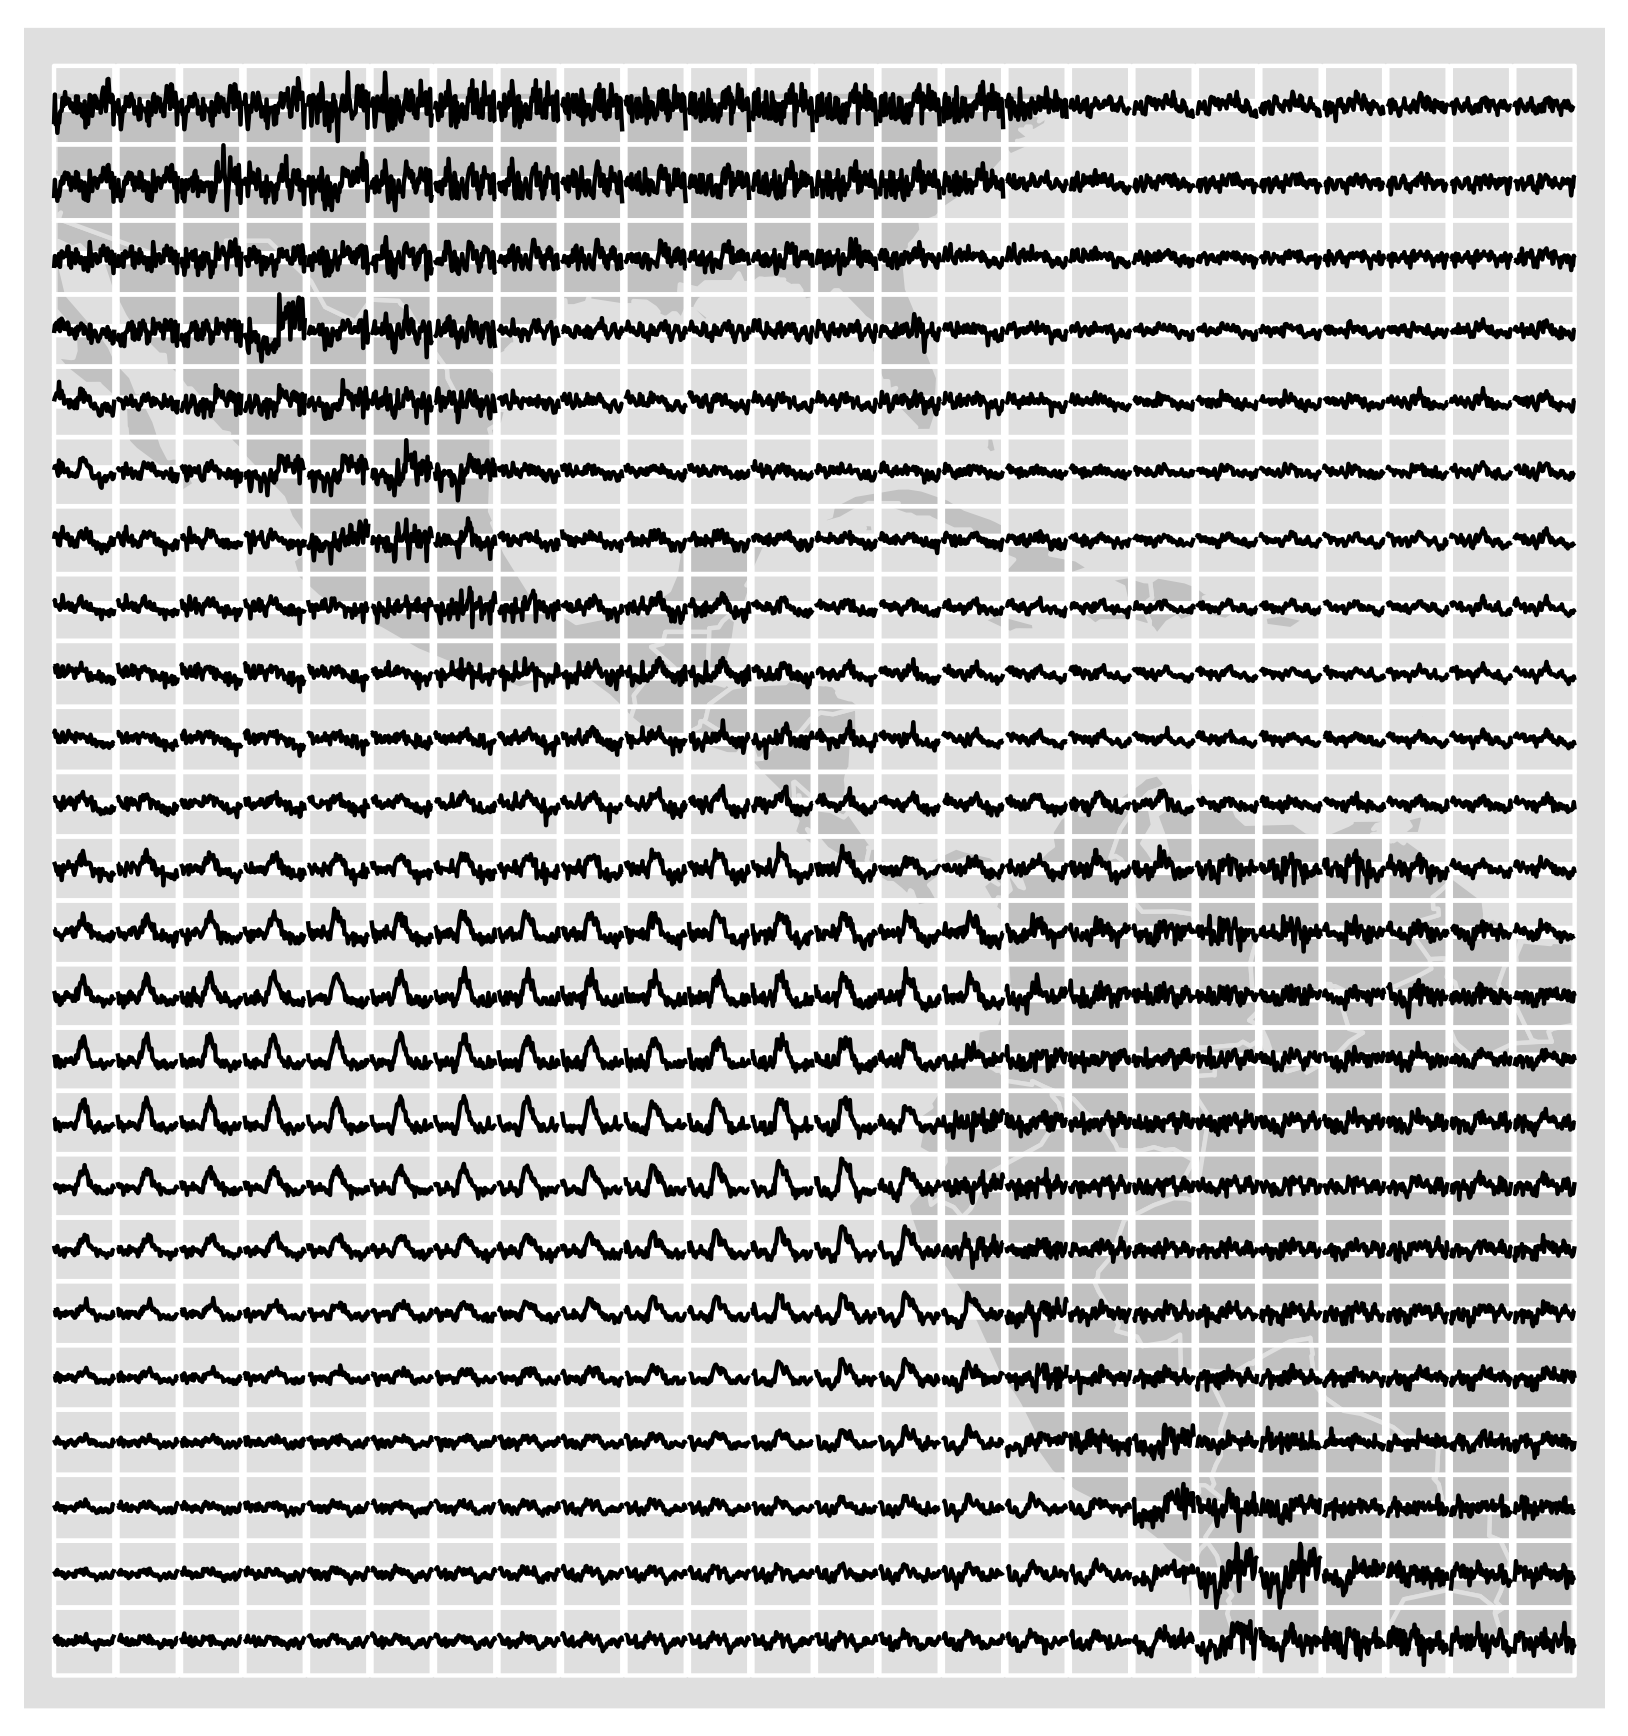
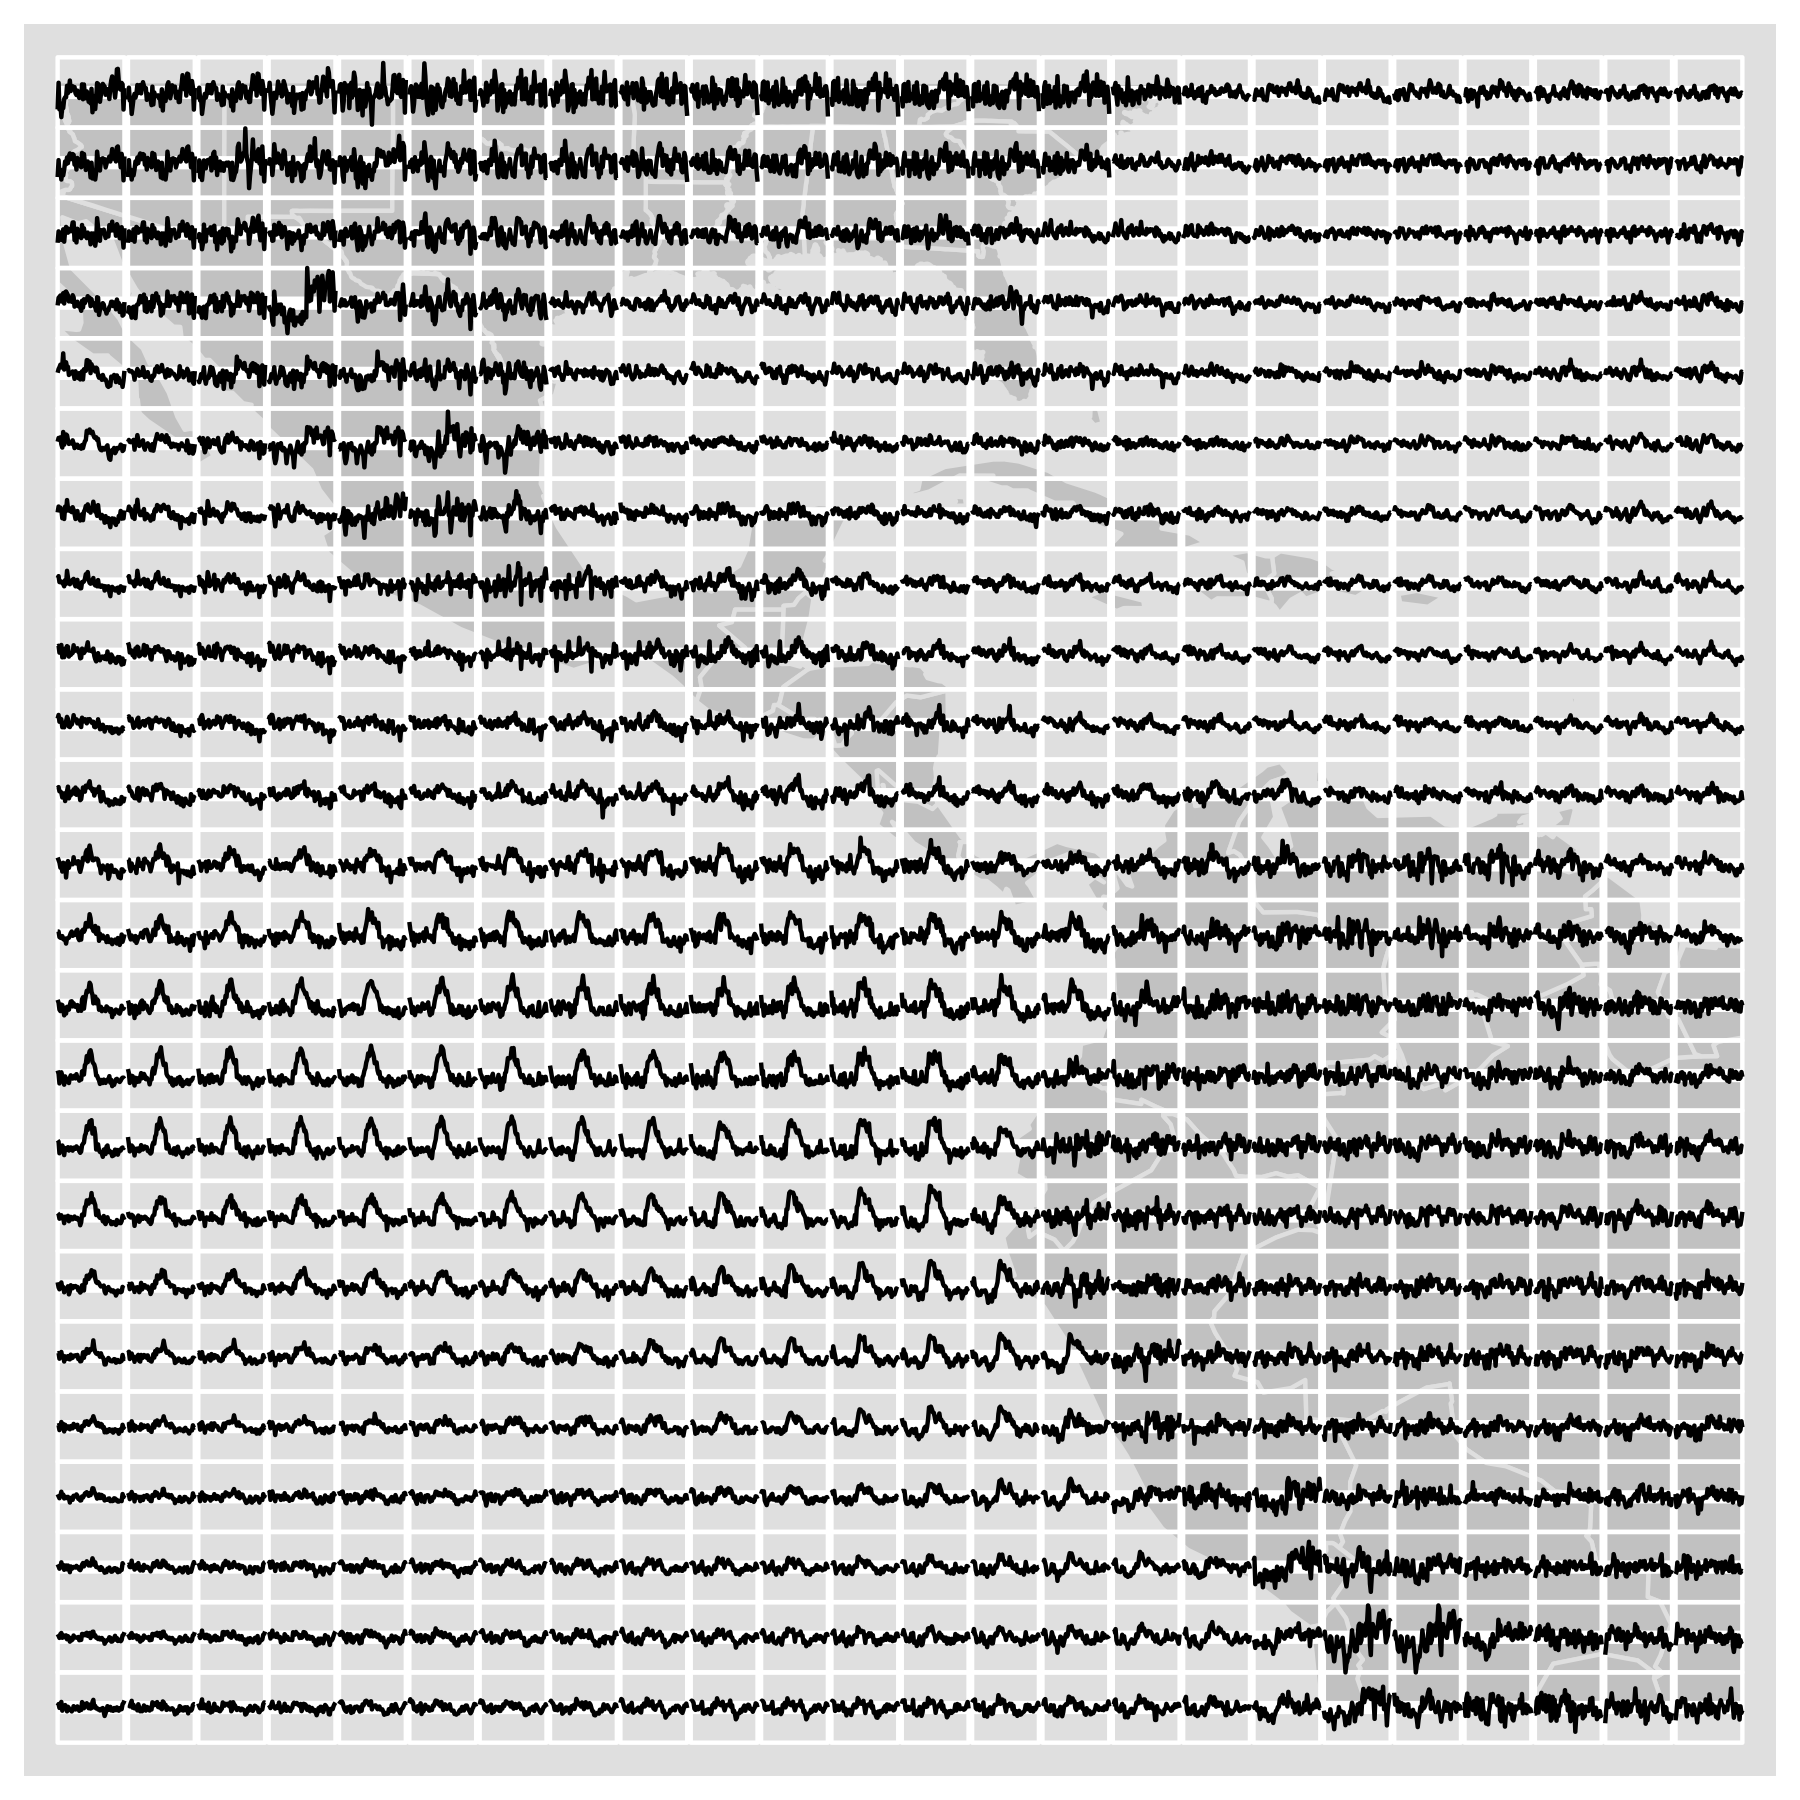
Re-do first two plots

diff --git a/revision/paper.tex b/revision/paper.tex
@@ -90,7 +90,8 @@ Figure~\ref{fig:nasa-glyph} shows the glyph-map equivalent of Figure~\ref{fig:na
 \begin{figure*}[htbp]
   \centering
   \includegraphics[width=3.5in]{nasa-deseas-glyph}
-  \caption{Glyph-map of de-seasonalized temperature, to compare with Figure \ref{fig:nasa-facet}. Time series of the six years of monthly temperature are plotted at each spatial grid location. The El Ni\~no appears as a bump in the middle of the time series, in the equatorial Pacific region. Large variations in temperature can be seen in areas over land, while being fairly constant over water. }
+  \includegraphics[width=2in]{nasa-deseas-glyph-leg}
+  \caption{(Left) Glyph-map of de-seasonalized temperature, to compare with Figure \ref{fig:nasa-facet}. Time series of the six years of monthly temperature are plotted at each spatial grid location. The El Ni\~no appears as a bump in the middle of the time series, in the equatorial Pacific region. Large variations in temperature can be seen in areas over land, while being fairly constant over water. (Right) Glyph-map legend, showing temporal pattern without spatial pattern: this allows you to see the scale of the individual axes.}
   \label{fig:nasa-glyph}
 \end{figure*}
 
